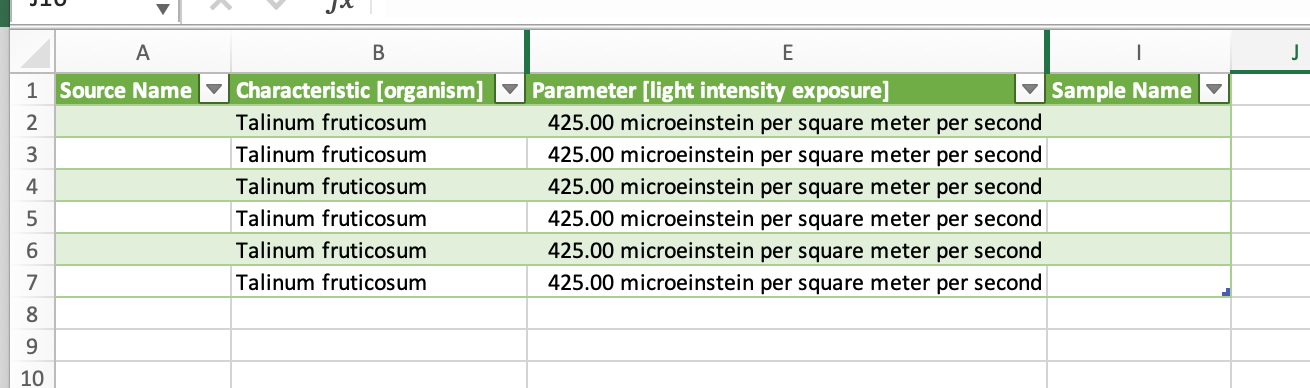
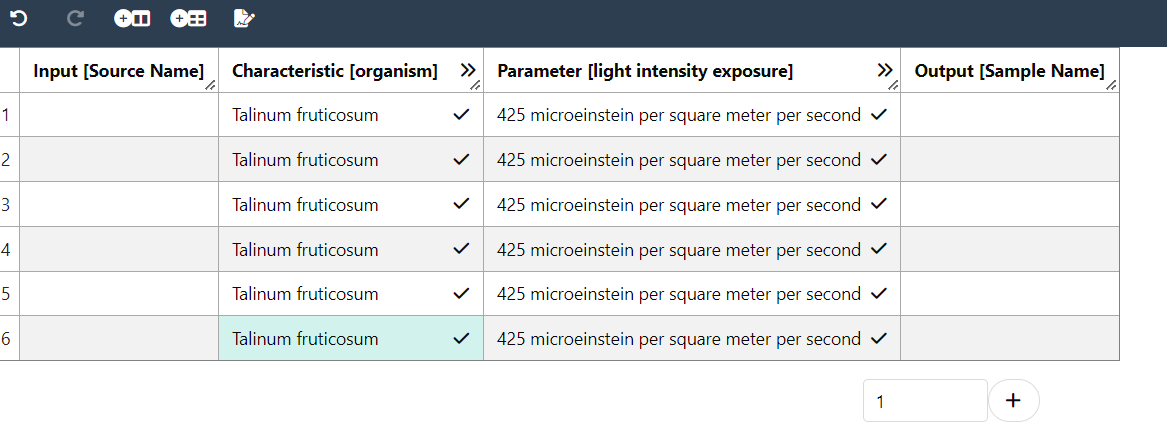
add new Swate-alpha screenshots, update Swate-hands-on

diff --git a/src/docs/teaching-materials/events-2024/2024-04-03_CEPLAS-ARC-Trainings/80-Swate-HandsOn.md b/src/docs/teaching-materials/events-2024/2024-04-03_CEPLAS-ARC-Trainings/80-Swate-HandsOn.md
@@ -17,6 +17,11 @@ author:
 - name: Sabrina Zander
   orcid: https://orcid.org/0009-0000-4569-6126
 ---
+<!-- TODO 
+
+- delete SWATE Excel Installation?
+- check sample data and delete tables, isa.study can not be opened by Swate alpha
+- -->
 
 # Swate hands-on
 
@@ -30,6 +35,8 @@ author:
 ---
 
 ## Check Swate installation
+
+<!-- TODO only use SWATE alpha? -->
 
 :ballot_box_with_check: Make sure [Swate is installed](./../../../SwateManual/Docs01-Installing-Swate.html):
 
@@ -53,7 +60,7 @@ Recommended text editor with code highlighting, git support, terminal, etc: <a h
 
 ## Download the demo data
 
-![bg right:40% w:250](./../../../img/ARCitect-help-Sidebar.drawio.svg)
+![bg right:40% w:250](./../../../img/ARCitect-help-Sidebar.png)
 
 1. Open the ARCitect
 2. Login (1) to your DataHUB account
@@ -68,11 +75,11 @@ Recommended text editor with code highlighting, git support, terminal, etc: <a h
 
 ![w:700](./../../../img/arcitect-download-TalinumARC.png)
 
-:bulb: This is basically the ARC we created last session.
+:bulb: This is basically the ARC we created in the morning.
 
 ---
 
-## Where we left off last time
+## Where we left off last time <!-- TODO delete? Because only one day course? -->
 
 👩💻 Initiated an ARC
 📂 Structured and ...  
@@ -94,7 +101,7 @@ Recommended text editor with code highlighting, git support, terminal, etc: <a h
 
 ## Swate Overview
 
-![width:1000](./../../../img/Swate_Overview.png)
+![width:1300](./../../../img/Swate_a_Overview.png)
 
 ---
 
@@ -102,82 +109,65 @@ Recommended text editor with code highlighting, git support, terminal, etc: <a h
 
 1. Navigate to the demo ARC. 
 2. Open the lab notes `studies/talinum_drought/protocols/plant_material.txt` in a text editor. 
-3. Open the empty `studies/talinum_drought/isa.study.xlsx` workbook in Excel.
+   Import the empty `studies/talinum_drought/isa.study.xlsx` file in Swate.
 
+![width:600](./../../../img/Swate_a_Home.png)
 
 ---
 
 ## Create an annotation table
 
-<br>
 
-<style scoped>
-.columns {
-    /* grid-template-columns: repeat(2, minmax(0, 1fr)); */
-    grid-template-columns: 500px 500px;
-    gap: 30px;
-    display: flex;
-    justify-content: center;
-}
-</style>
 
-<div class="columns">
-<div class="columns-left">
+Create a Swate annotation table by adding **Buiding blocks** via the widget (A) or the side panel (B)
 
-Create a Swate annotation table via the <kbd>create annotation table</kbd> button in the yellow pop-up box *OR* click the <kbd>Create Annotation Table</kbd> quick access button.
 
-<br>
 
-:bulb: Each table is by default created with one input (`Source Name`) and one output (`Sample Name`) column  
+:bulb: Each table can contain only one *Input* and one *Output* column  
 
-:bulb: Only one annotation table can be added per Excel sheet
+:bulb: different *Input* and *Output* options: `Source Name`, `Sample Name`, `Material`, `Raw Data File`, `Derived Data File`, `Image File`
 
-</div>
+![w:600](./../../../img/Swate_a_Building_blocks.png)
 
-<div class="columns-right">
-    <img src="./../../../img/Swate-CreateAnnotationTable-Exp.jpg" style="width: 1200px">
-</div>
 
-</div>
 
 ---
 
-## Add a building block
+## Add more building blocks
 
-1. Navigate to the *Building Blocks* tab via the navbar. Here you can add *Building Blocks* to the table.
-2. Instead of *Parameter* select *Characteristic* from the drop-down menu (A)
-3. Search for `organism` in the search bar (B). This search looks for suitable *Terms* in our *Ontology* database.
+1. Add an *Input* (`Source Name`) and *Output* (`Sample Name`) column
+2. Select *Characteristic* from the drop-down menu
+3. Enter `organism` in the search bar. This search looks for suitable *Terms* in our *Ontology* database.
 4. Select the Term with the id `OBI:0100026` and, 
-5. Click <kbd>Add building block</kbd>.
+5. Click Add Column
 
-:bulb: This adds three columns to your table, one visible and **two** hidden.
+:bulb: This adds four columns to your table, one visible and **three** hidden.
 
-![bg right:30% w:400](./../../../img/Swate-AddBuildingBlock-Exp.jpg?v31.01.22)
+![bg right:40% w:500](./../../../img/Swate_a_addBuildngBlock.png)
 
 ---
 
 ## Insert values to annotate your data
 
-1. Navigate to the *Terms* tab in the Navbar
-2. In the annotation table, select any number of cells below `Characteristic [organism]`
-3. Click into the search field in Swate.
+1. Insert values by selecting any cell below `Characteristic [organism]`
+2. Use free text or activate the magnifying glass to activate *Term* search
+3. Write "Talinum fruticosum" and enable *Term* search
+4. Select the hit 
 
-:bulb: You should see `organism` showing in a field in front of the search field  
-:bulb: The search will now yield results related to `organism`
 
-4. In the search field, search for "Talinum fruticosum"
-5. Select the first hit and click <kbd>Fill selected cells with this term</kbd>
+![bg right:40% w:500](./../../../img/Swate_a_addCharacteristic.png)
 
 ---
 
 ## Add a building block with a unit
 
-1. In the *Building Blocks* tab, select *Parameter*, search for `light intensity exposure` and select the term with id `PECO:0007224`.
-2. Check the box for *This Parameter has a unit* and search for `microeinstein per square meter per second` in the adjacent search bar.
+1. In the *Building Blocks* widget, select *Parameter*, search for `light intensity exposure` and select the term with id `PECO:0007224`.
+2. Check the box for *Unit* and search for `microeinstein per square meter per second` in the adjacent search bar.
 3. Select `UO:0000160`.
-4. Click <kbd>Add building block</kbd>.
+4. Click Add Column.
 
-:bulb: This adds four columns to your table, one visible and **three** hidden.
+:bulb: This also adds four columns to your table, one visible and **three** hidden.
+
 
 ---
 
@@ -185,20 +175,22 @@ Create a Swate annotation table via the <kbd>create annotation table</kbd> butto
 
 In the annotation table, select any cell below `Parameter [light intensity exposure]` and add "425" as light intensity.
 
-:bulb: You can see the numbers being complemented with the chosen unit, e.g. `425.00 microeinstein per square meter per second`
+:bulb: You can see the numbers being complemented with the chosen unit, e.g. `425 microeinstein per square meter per second`
 
 ---
 
 ## Showing ontology reference columns
 
-Hold <kbd>Ctrl</kbd> and click the *Autoformat Table* quick access button to adjust column widths and un-hide all hidden columns.
+Use double pointed quotation mark to un-hide hidden columns. 
 
 :bulb: You can see that your organism of choice was added with id and source Ontology in the reference (hidden) columns.
 
-:warning: This feature is currently not supported on MacOS
+
+![w:900](./../../../img/Swate_a_reference_column.png)
+
 
 ---
-
+<!-- TODO delete? Because only one day course? 
 ## Update ontology reference columns
 
 Click the <kbd>Update Ontology Terms</kbd> quick access buttons.
@@ -207,17 +199,14 @@ Click the <kbd>Update Ontology Terms</kbd> quick access buttons.
 
 ---
 
+-->
 ## Your ISA table is growing
 
 At this point. Your table should look similar to this:
 
 ![w:1000](./../../../img/demo_isa.study1.png)
 
----
 
-## Hiding ontology reference columns
-
-Click the <kbd>Autoformat Table</kbd> quick access button without holding <kbd>Ctrl</kbd> to hide all reference columns.
 
 ---
 
@@ -229,8 +218,8 @@ Try to add suitable *building blocks* for other pieces of metadata from the plan
 
 ## Add a factor building block
 
-1. In the *Building Blocks* tab, select *Factor*, search for `watering exposure` and select the term with id `PECO:0007383`.
-2. Click <kbd>Add building block</kbd>.
+1. In the *Building Blocks* widget, select *Factor*, search for `watering exposure` and select the term with id `PECO:0007383`.
+2. Click <kbd>Add Column</kbd>.
 3. Add the drought treatment ("no water for 12 days", "re-water for 2 days") to the respective samples
 
 :bulb: There are different options to add the drought treatment.
@@ -239,8 +228,8 @@ Try to add suitable *building blocks* for other pieces of metadata from the plan
 
 ## Link the protocol to the isa table
 
-1. In the *Building Blocks* tab, select *Protocol Columns* -> *Protocol REF*.
-2. Click <kbd>Add building block</kbd>.
+1. In the *Building Blocks* tab, select *More* -> *Protocol REF*.
+2. Click <kbd>Add Column</kbd>.
 3. Add the name of the protocol file (plant_material.txt) to the *Protocol REF* column.
 
 :bulb: This allows you to reference the free-text, human-readable protocol.
@@ -260,7 +249,7 @@ Transfer the sample ids from the protocol.
 
 1. Navigate to the demo ARC. 
 2. Open the lab notes `assays/rnaseq/protocols/RNA_extraction.txt` in a text editor.
-3. Open the empty `assays/rnaseq/isa.assay.xlsx)` workbook in Excel.
+3. Open the empty `assays/rnaseq/isa.assay.xlsx` workbook in Excel.
 
 ---
 
